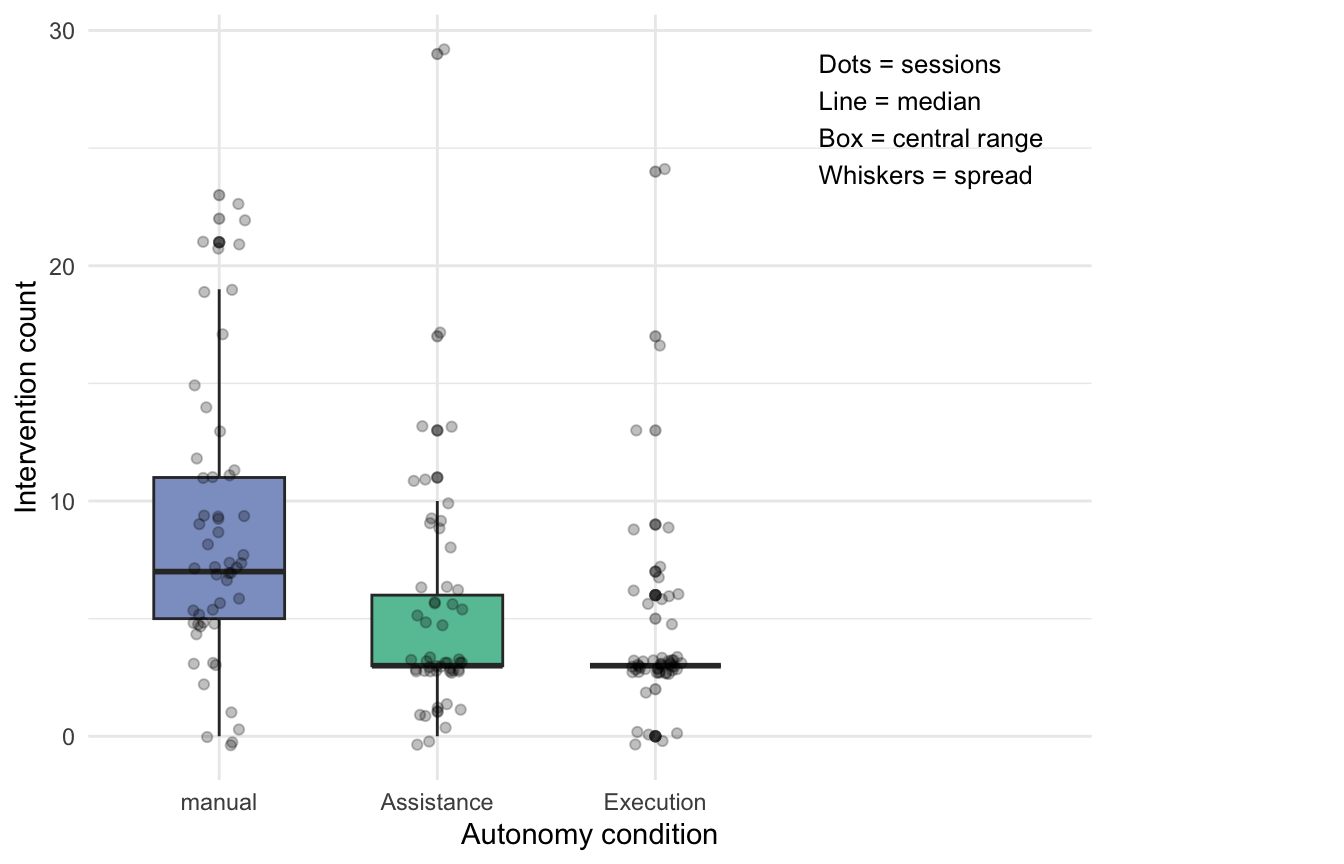
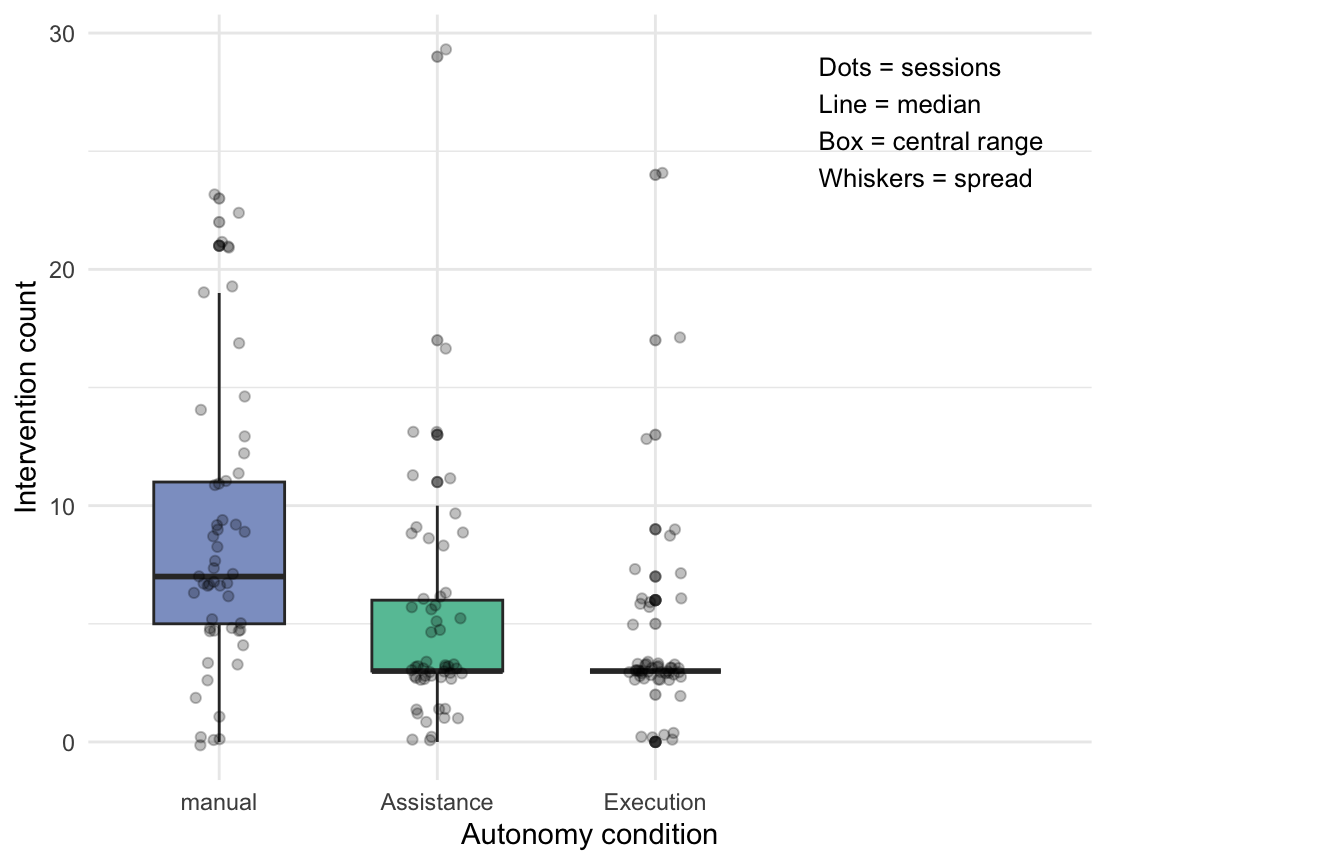
add discussion and conclusion

diff --git a/index.html b/index.html
@@ -80,7 +80,16 @@ ul.task-list li input[type="checkbox"] {
   <li><a href="#types-of-intervention" id="toc-types-of-intervention" class="nav-link" data-scroll-target="#types-of-intervention"><span class="header-section-number">4.2.3</span> Types of Intervention</a></li>
   </ul></li>
   </ul></li>
-  <li><a href="#bibliography" id="toc-bibliography" class="nav-link" data-scroll-target="#bibliography"><span class="header-section-number">5</span> Bibliography</a></li>
+  <li><a href="#discussion" id="toc-discussion" class="nav-link" data-scroll-target="#discussion"><span class="header-section-number">5</span> Discussion</a>
+  <ul class="collapse">
+  <li><a href="#evaluation-of-hypotheses" id="toc-evaluation-of-hypotheses" class="nav-link" data-scroll-target="#evaluation-of-hypotheses"><span class="header-section-number">5.1</span> Evaluation of Hypotheses</a></li>
+  <li><a href="#summary-of-findings" id="toc-summary-of-findings" class="nav-link" data-scroll-target="#summary-of-findings"><span class="header-section-number">5.2</span> Summary of Findings</a></li>
+  <li><a href="#interpretation" id="toc-interpretation" class="nav-link" data-scroll-target="#interpretation"><span class="header-section-number">5.3</span> Interpretation</a></li>
+  <li><a href="#limitations" id="toc-limitations" class="nav-link" data-scroll-target="#limitations"><span class="header-section-number">5.4</span> Limitations</a></li>
+  <li><a href="#practical-implications" id="toc-practical-implications" class="nav-link" data-scroll-target="#practical-implications"><span class="header-section-number">5.5</span> Practical Implications</a></li>
+  <li><a href="#conclusion" id="toc-conclusion" class="nav-link" data-scroll-target="#conclusion"><span class="header-section-number">5.6</span> Conclusion</a></li>
+  </ul></li>
+  <li><a href="#bibliography" id="toc-bibliography" class="nav-link" data-scroll-target="#bibliography"><span class="header-section-number">6</span> Bibliography</a></li>
   </ul>
 <div class="quarto-alternate-formats"><h2>Other Formats</h2><ul><li><a href="ai-execution-autonomy-analysis.docx"><i class="bi bi-file-word"></i>MS Word</a></li></ul></div></nav>
 </div>
@@ -933,8 +942,35 @@ Figure&nbsp;12: Proportion of started sessions containing each intervention type
 </section>
 </section>
 </section>
-<section id="bibliography" class="level1" data-number="5">
-<h1 data-number="5"><span class="header-section-number">5</span> Bibliography</h1>
+<section id="discussion" class="level1" data-number="5">
+<h1 data-number="5"><span class="header-section-number">5</span> Discussion</h1>
+<section id="evaluation-of-hypotheses" class="level2" data-number="5.1">
+<h2 data-number="5.1" class="anchored" data-anchor-id="evaluation-of-hypotheses"><span class="header-section-number">5.1</span> Evaluation of Hypotheses</h2>
+<p>The present study examined how different levels of AI execution autonomy influenced user task performance and intervention behavior in a controlled digital workflow. Overall, the findings provide differentiated support for the proposed hypotheses. H1 was largely supported. Higher levels of AI execution autonomy were associated with improved task performance across multiple indicators. For completion time, a clear and statistically significant stepwise pattern was observed, with the Manual condition showing the longest completion times, the Assistance condition showing shorter times, and the Execution condition showing the shortest times. This finding suggests that increasing execution autonomy can reduce the amount of manual effort required to complete a task. For detected errors, the Manual condition showed a significantly higher proportion of started sessions with at least one error compared with both the Assistance and Execution conditions, whereas the difference between Assistance and Execution was not statistically significant. A similar pattern emerged for task completion versus abandonment: overall differences across conditions were significant, but the clearest pairwise difference was found between the Manual and Execution conditions. Taken together, these results indicate that higher execution autonomy improved task performance, although this effect was not equally strong across all performance indicators. H2 was only partially supported. Intervention occurrence, operationalized as whether any intervention took place during a started session, did not differ significantly across autonomy conditions. In contrast, intervention count showed a significant effect: participants in the Manual condition intervened significantly more often than participants in both the Assistance and Execution conditions, whereas no significant difference was found between the Assistance and Execution conditions. The descriptive analysis of intervention types also showed that intervention was not uniform across conditions. Edits were frequent in all three conditions, while override and rejection-related actions were concentrated in the system-supported conditions. Thus, higher AI execution autonomy did not eliminate intervention altogether, but it did reduce how often users needed to intervene and altered the form that intervention took.</p>
+</section>
+<section id="summary-of-findings" class="level2" data-number="5.2">
+<h2 data-number="5.2" class="anchored" data-anchor-id="summary-of-findings"><span class="header-section-number">5.2</span> Summary of Findings</h2>
+<p>Several overarching findings emerge from the results. First, increasing AI execution autonomy was associated with more efficient task completion. Completion time decreased progressively from the Manual condition to the Assistance condition and further to the Execution condition. Second, higher autonomy was associated with fewer detected errors, particularly when comparing the Manual condition with the two system-supported conditions. Third, abandonment decreased under higher autonomy, although this effect was most clearly evident in the comparison between the Manual and Execution conditions. Fourth, intervention behavior was more complex than initially expected. While intervention occurrence remained high across all conditions, intervention count decreased under higher autonomy. This suggests that users continued to engage with the system across all conditions, but the amount of intervention required was lower when the system took over a larger share of task execution. Taken together, these findings suggest that AI execution autonomy primarily improved task performance by reducing manual workload and limiting the number of corrective actions required during task execution. At the same time, user involvement was not removed entirely, indicating that even execution-oriented systems still operate within a human-supervised interaction structure.</p>
+</section>
+<section id="interpretation" class="level2" data-number="5.3">
+<h2 data-number="5.3" class="anchored" data-anchor-id="interpretation"><span class="header-section-number">5.3</span> Interpretation</h2>
+<p>The observed pattern suggests that the level of execution autonomy influenced not only how quickly tasks were completed, but also how much corrective interaction was needed during task execution. This is consistent with human–automation research showing that delegating more task-relevant processing to the system can improve performance when the system operates within a well-defined and rule-based environment (Parasuraman et al., 2000; Parasuraman &amp; Wickens, 2008). In the present study, both the Assistance and Execution conditions reduced the burden of manual configuration compared with the Manual condition, which likely contributed to the shorter completion times and lower error occurrence in those conditions. The particularly strong effect on completion time suggests that execution autonomy was especially effective in reducing routine task effort. This pattern is plausible because the experimental task involved structured decisions under explicit constraints. In such settings, higher levels of autonomy can reduce the need for users to manually construct a valid solution step by step. Instead, the system can perform part or all of the configuration work, thereby accelerating task completion. This interpretation aligns with prior research showing that automation can improve efficiency when the delegated function is well specified and computationally manageable (Parasuraman et al., 2000). At the same time, the findings show that the relationship between autonomy and intervention is more nuanced than a simple reduction model would suggest. Intervention occurrence remained similarly high across all conditions, whereas intervention count differed significantly. This indicates that a binary distinction between “intervention” and “no intervention” was too coarse to capture meaningful differences between conditions. One likely reason is that the operationalization of intervention occurrence was broad: because even a single edit counted as intervention, the majority of started sessions across all conditions were classified as involving intervention. As a result, this measure had limited discriminative power. By contrast, intervention count provided a more fine-grained view and showed that the Manual condition required substantially more intervention overall. The descriptive analysis of intervention types helps explain this pattern further. Edits occurred in more than 90% of started sessions across all conditions, suggesting that editing behavior was a general feature of the task rather than a condition-specific response. This may indicate that some level of active user involvement was structurally embedded in the workflow itself. In contrast, override and rejection-related actions were concentrated in the system-supported conditions. This pattern is theoretically meaningful because it suggests that as autonomy increases, user intervention shifts from constructing the solution manually toward monitoring and selectively correcting the system’s output. Such a shift is consistent with the idea that greater autonomy does not remove the human from the loop, but changes the human role from primary executor to supervisor and corrector (Endsley, 2017; Lee &amp; See, 2004). Another important finding is that the Assistance and Execution conditions were not consistently distinguishable across all outcomes. Although Execution performed better descriptively on several indicators, the pairwise comparisons between Assistance and Execution were often not statistically significant, especially for detected errors and intervention count. This suggests that once the system assumes a meaningful supportive role, additional increases in execution autonomy may yield diminishing returns. In other words, moving from no system support to partial system support may produce the strongest behavioral improvement, whereas moving from partial support to full execution may not always create an equally large additional benefit. This interpretation is important because it suggests that the optimal level of autonomy may not always be full execution. Under some circumstances, assistance-oriented autonomy may already deliver most of the practical benefits while preserving a greater degree of user control. Overall, the findings indicate that AI execution autonomy influenced behavior in two main ways: it improved task performance and reduced the frequency of intervention, but it did not fully remove the need for user involvement. This suggests that execution-oriented AI should not be understood as replacing the user completely. Rather, it restructures the interaction so that users engage less in direct configuration and more in supervision, acceptance, modification, and correction.</p>
+</section>
+<section id="limitations" class="level2" data-number="5.4">
+<h2 data-number="5.4" class="anchored" data-anchor-id="limitations"><span class="header-section-number">5.4</span> Limitations</h2>
+<p>Several limitations should be considered when interpreting the findings. First, the study was conducted with a finite sample in a single controlled experimental setting. Although the sample was sufficient to detect several meaningful differences between conditions, the findings should not be generalized too broadly without caution. Future studies with larger and more diverse samples would strengthen the external validity of the results. Second, the study was based on a prototype workflow rather than a fully deployed real-world AI system. Although the prototype allowed precise control over autonomy conditions and enabled detailed log-based measurement, it necessarily simplified some aspects of real human–AI interaction. In particular, the system simulated AI-supported execution within a constrained task environment. As a result, the findings should be interpreted as evidence about execution autonomy under controlled workflow conditions, rather than as a direct evaluation of fully autonomous AI systems in unconstrained real-world settings. Third, the task itself was relatively structured and rule based. This was methodologically useful because it allowed the effects of autonomy to be isolated more clearly, but it also limits generalizability. In more ambiguous, creative, or socially complex tasks, the effects of autonomy may differ substantially. The present results are therefore most directly applicable to constrained digital workflows in which valid outputs can be defined through explicit rules. Fourth, intervention occurrence was operationalized rather broadly. Because a session was classified as involving intervention whenever at least one edit, override, or rejection-related action occurred, the measure captured a wide range of user actions and may have obscured finer differences between conditions. The fact that intervention occurrence remained similarly high across all conditions suggests that this binary measure had limited sensitivity. The count-based and type-based analyses were therefore more informative, but future research could refine intervention measures further by distinguishing between low-impact and high-impact forms of intervention. Fifth, the study relied exclusively on behavioral log data. This was a deliberate strength of the design, because it enabled objective measurement of task performance and user actions. However, it also means that the study cannot directly explain how participants subjectively experienced the different autonomy conditions. Constructs such as trust, perceived control, workload, and satisfaction were not measured directly. Future work could combine log-based behavioral data with self-report measures in order to better connect observable behavior with user perception.</p>
+</section>
+<section id="practical-implications" class="level2" data-number="5.5">
+<h2 data-number="5.5" class="anchored" data-anchor-id="practical-implications"><span class="header-section-number">5.5</span> Practical Implications</h2>
+<p>The practical implications of the study are especially relevant for the design of AI-supported digital workflows. The findings suggest that higher execution autonomy can be beneficial when tasks are structured, rule based, and governed by explicit constraints. In such situations, allowing the system to take over more of the execution process can improve efficiency, reduce user errors, and lower the amount of corrective interaction required. This is particularly valuable in repetitive administrative or configuration-oriented workflows where the system can reliably generate valid outcomes. However, the results also show that user involvement remains important even under higher autonomy. Intervention did not disappear; rather, its frequency decreased and its form changed. This implies that designers should not assume that execution autonomy makes user control unnecessary. Instead, systems should be designed to support appropriate supervisory control. Even when the system executes actions directly, users should still be able to inspect outputs, understand what has been generated, and intervene when necessary. This leads to a more differentiated design implication: higher autonomy appears especially useful when task rules are stable, the cost of system error is manageable, and output validity can be checked systematically. In contrast, stronger user control is likely to remain important when tasks are ambiguous, preference sensitive, high stakes, or difficult to evaluate automatically. Under such conditions, full execution autonomy may reduce effort, but it may also increase the need for transparency, reviewability, and correction mechanisms. The comparison between Assistance and Execution also suggests that full execution autonomy is not always required to achieve meaningful performance gains. In the present study, the move from Manual to system-supported conditions produced the strongest improvements, whereas the differences between Assistance and Execution were often smaller and not always statistically significant. From a design perspective, this means that assistance-oriented systems may already offer substantial value while preserving a greater degree of user agency. In many practical settings, the most effective design may therefore be neither full manual control nor unconditional full execution, but a calibrated level of autonomy that matches the structure, risk, and reversibility of the task. More concretely, AI execution autonomy appears most appropriate when: * the workflow is repetitive and well structured, * valid outputs can be defined through clear rules or constraints, * rapid completion is important, * and users retain the ability to inspect and correct system outputs when needed. By contrast, stronger user control appears especially important when: * tasks involve personal judgment or individual preference, * system outputs are difficult to verify automatically, * the consequences of incorrect execution are high, * or accountability and explainability are particularly important. Taken together, these findings support a design perspective in which autonomy should be calibrated rather than maximized. The central design goal should not be to eliminate user involvement, but to reduce unnecessary manual burden while preserving meaningful control where it is still needed.</p>
+</section>
+<section id="conclusion" class="level2" data-number="5.6">
+<h2 data-number="5.6" class="anchored" data-anchor-id="conclusion"><span class="header-section-number">5.6</span> Conclusion</h2>
+<p>This study examined how different levels of AI execution autonomy affect user task performance and intervention behavior in a controlled digital workflow. The findings showed that higher execution autonomy was associated with improved task performance, particularly in terms of shorter completion times and lower error occurrence relative to the Manual condition. At the same time, user intervention was not removed entirely. Although intervention occurrence remained similarly high across conditions, intervention count was significantly lower in the system-supported conditions, and the form of intervention changed depending on the level of autonomy. Overall, the results suggest that AI execution autonomy can improve efficiency and reduce manual burden in structured workflows, but it does not eliminate the need for human oversight. Rather than replacing user control completely, higher autonomy appears to shift the user role toward supervision, correction, and selective intervention. These findings contribute to a more behaviorally grounded understanding of human–AI interaction and highlight the importance of calibrating autonomy to the structure and demands of the task.</p>
+</section>
+</section>
+<section id="bibliography" class="level1" data-number="6">
+<h1 data-number="6"><span class="header-section-number">6</span> Bibliography</h1>
 <p>Endsley, M. R. (2017). From here to autonomy: Lessons learned from human–automation research. Human Factors, 59(1), 5–27. https://doi.org/10.1177/0018720816681350</p>
 <p>Hoff, K. A., &amp; Bashir, M. (2015). Trust in automation: Integrating empirical evidence on factors that influence trust. Human Factors, 57(3), 407–434. https://doi.org/10.1177/0018720814547570</p>
 <p>Lee, J. D., &amp; See, K. A. (2004). Trust in automation: Designing for appropriate reliance. Human Factors, 46(1), 50–80. https://doi.org/10.1518/hfes.46.1.50_30392</p>
